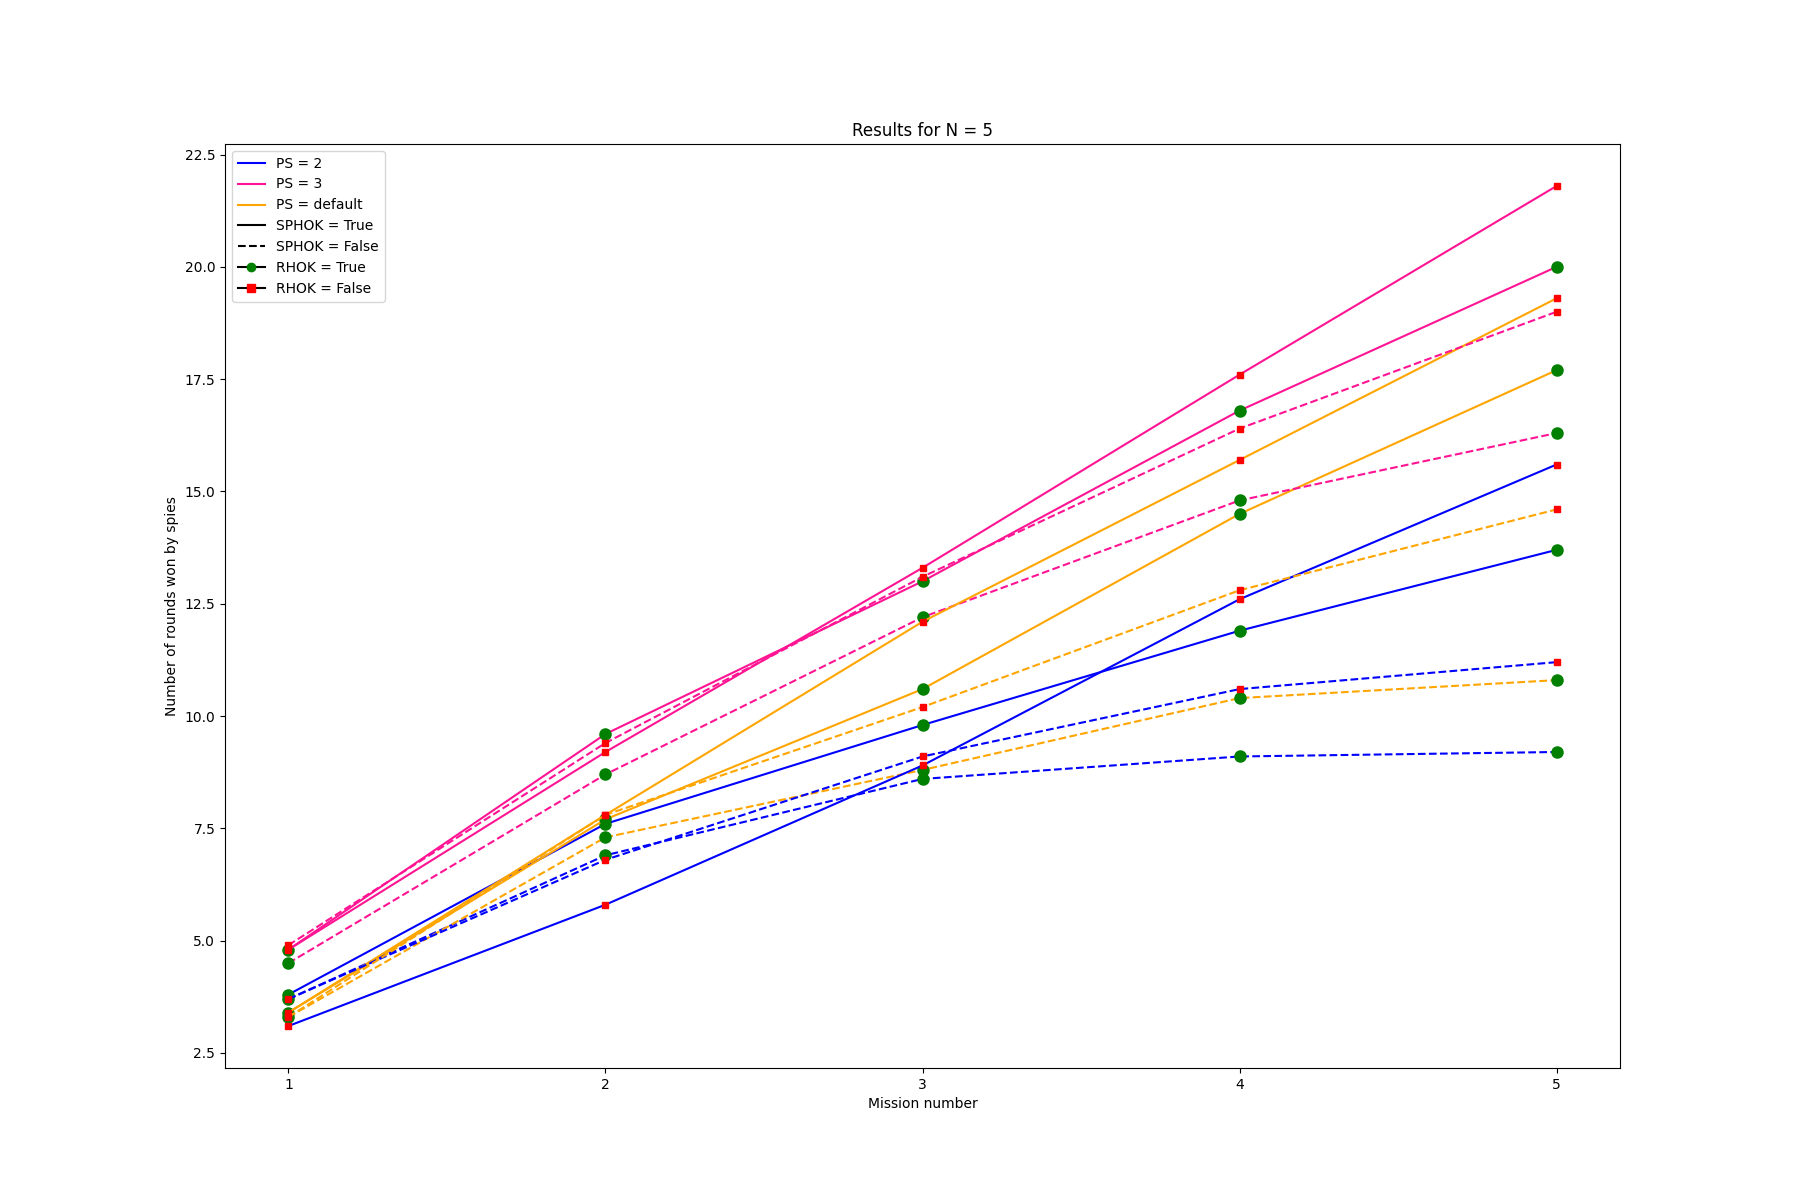
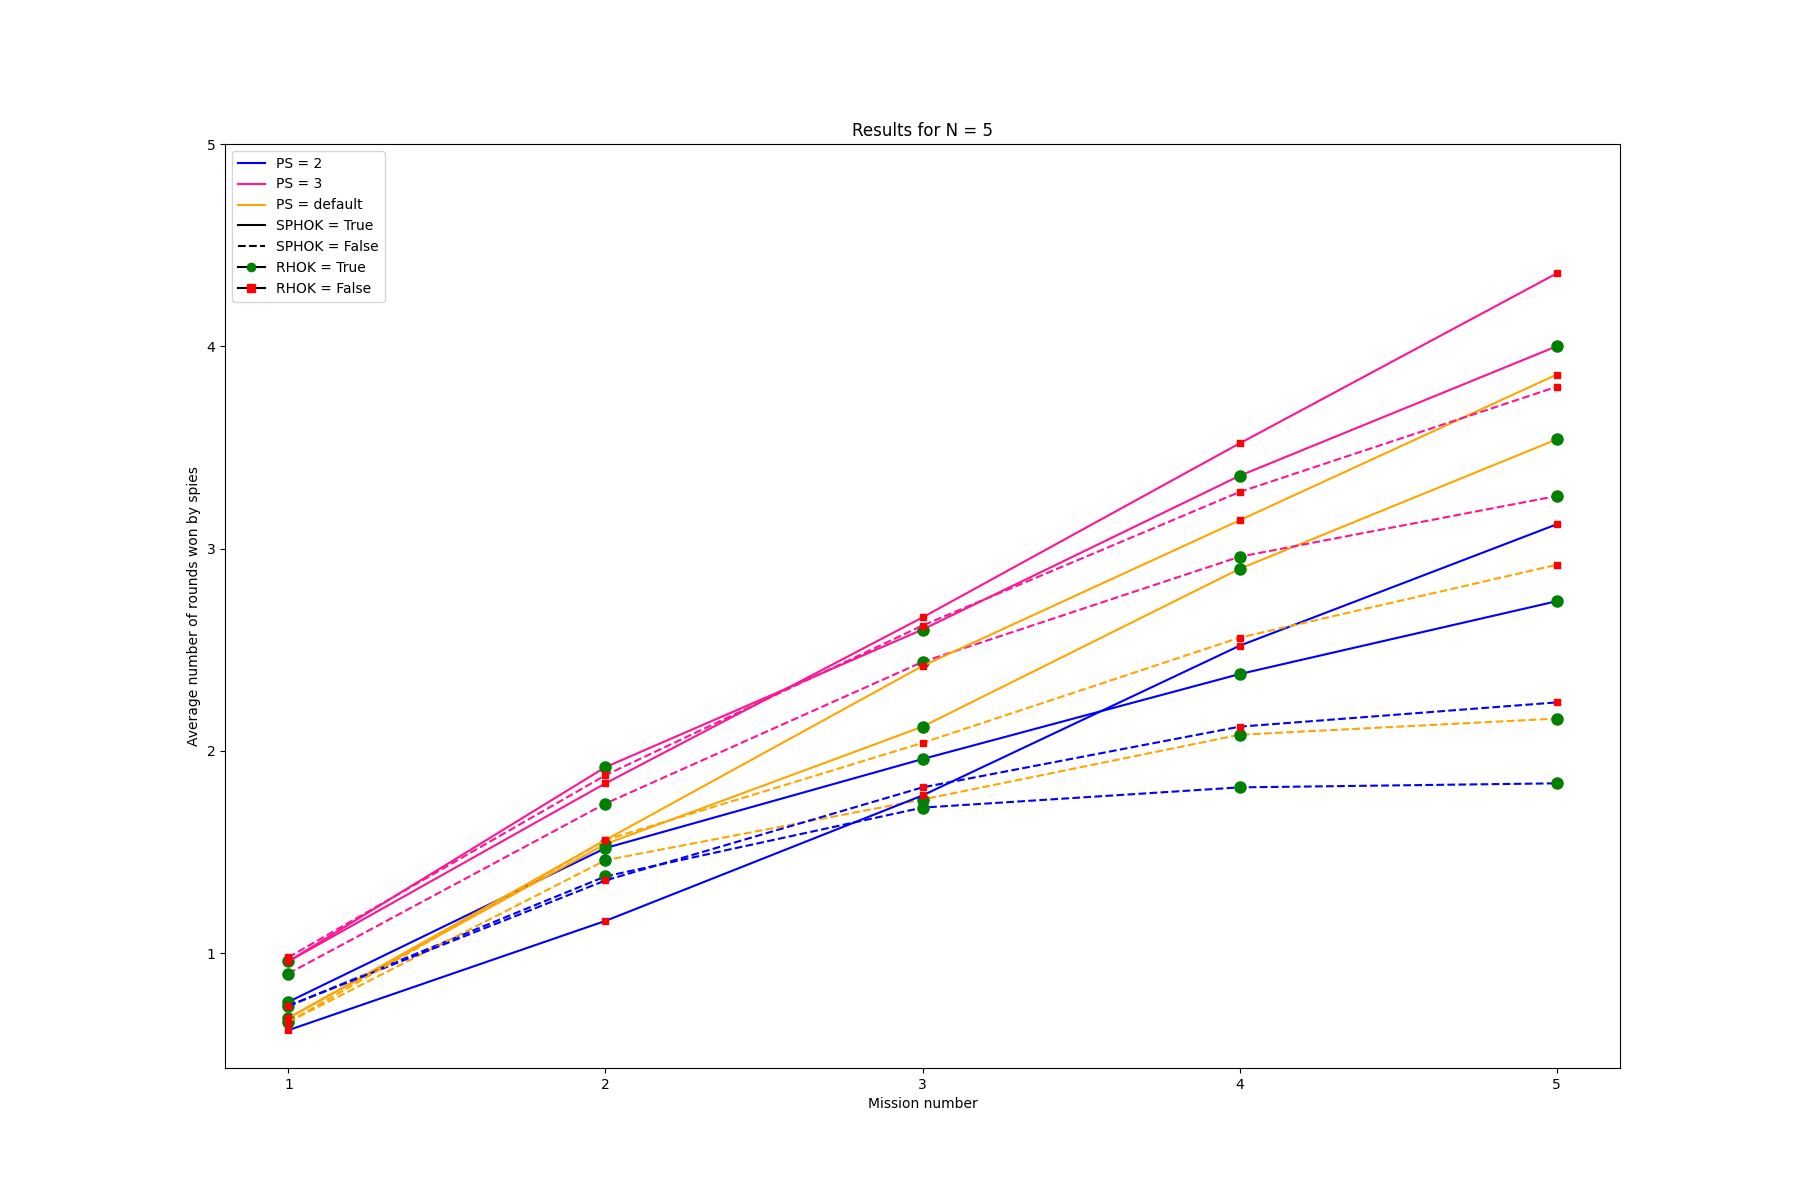
Redo axes

Changed region(s): [[0.1556, 0.2158, 0.8711, 0.8633], [0.0933, 0.4008, 0.1244, 0.6167]]

diff --git a/results/graph.py b/results/graph.py
@@ -32,7 +32,7 @@ def calculate_average(l_all):
         for single_list in v:
             for i, score in enumerate(single_list):
                 total[i] += score
-        avg = [t / 10 for t in total]
+        avg = [t / 50 for t in total]
         l_avg.append(avg)
 
     return l_avg
@@ -98,8 +98,9 @@ def make_main_chart_5(df):
     plt.legend(handles=legend_elements, loc='upper left')
     plt.title('Results for N = 5')
     plt.xlabel('Mission number')
-    plt.ylabel('Number of rounds won by spies')
+    plt.ylabel('Average number of rounds won by spies')
     plt.xticks(x)
+    plt.yticks(x)
     plt.savefig('figure_n5.png')
     plt.show()
 
@@ -145,10 +146,11 @@ def make_subcharts_5(df):
     axs[0].set_xlabel("Mission number")
     axs[1].set_xlabel("Mission number")
     axs[2].set_xlabel("Mission number")
-    axs[0].set_ylabel('Number of rounds won by spies')
-    axs[1].set_ylabel('Number of rounds won by spies')
-    axs[2].set_ylabel('Number of rounds won by spies')
+    axs[0].set_ylabel('Average number of rounds by spies')
+    axs[1].set_ylabel('Average number of rounds by spies')
+    axs[2].set_ylabel('Average number of rounds by spies')
     plt.xticks(x)
+    plt.yticks(x)
     plt.savefig('figure_subn5.png')
     plt.show()
 
@@ -180,8 +182,9 @@ def make_line_chart_6(df):
     plt.legend(handles=legend_elements, loc='upper left')
     plt.title('Results for N = 6')
     plt.xlabel('Mission number')
-    plt.ylabel('Number of rounds won by spies')
+    plt.ylabel('Average number of rounds by spies')
     plt.xticks(x)
+    plt.yticks(x)
     plt.savefig('figure_n6.png')
     plt.show()
 
